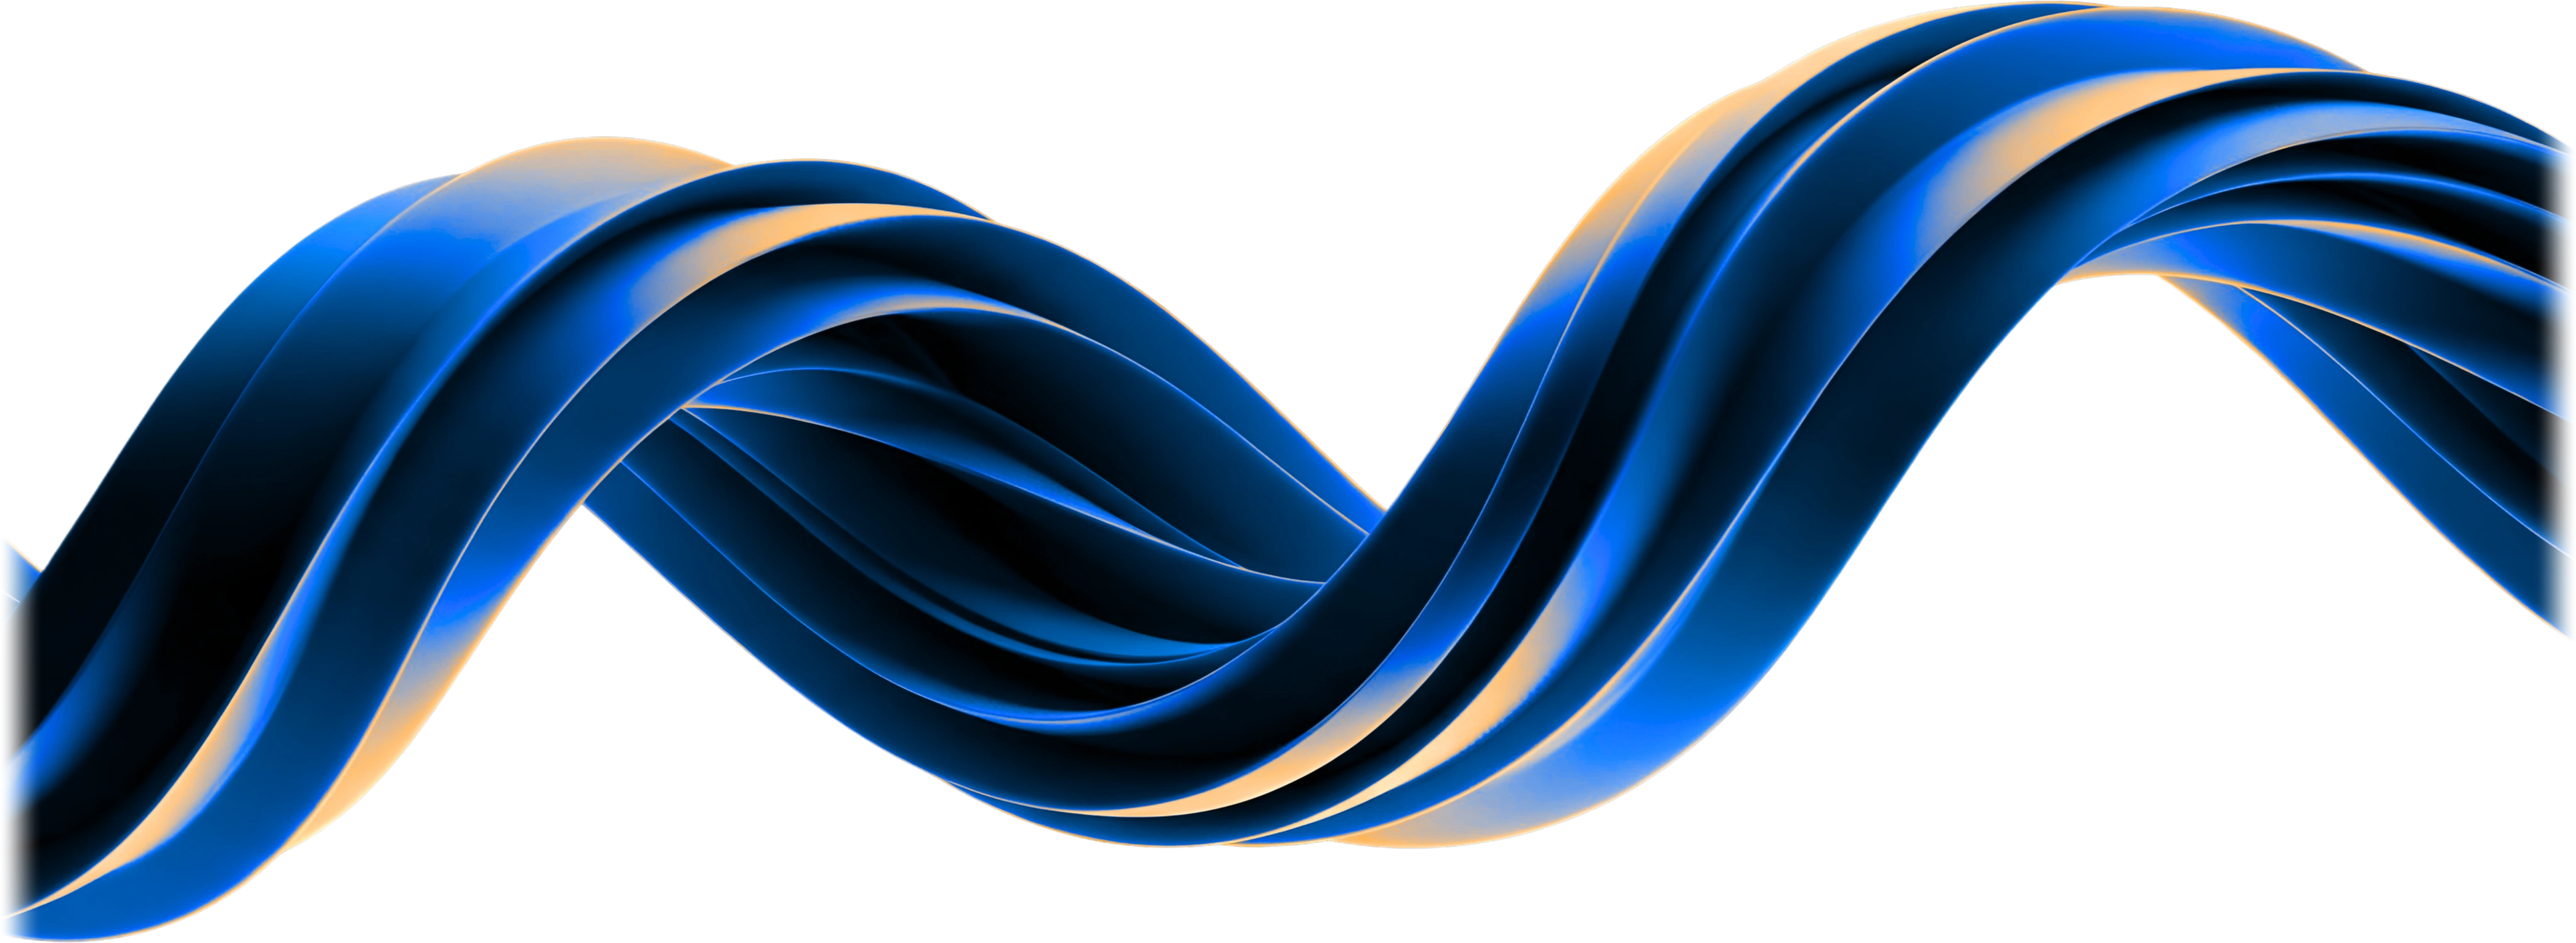
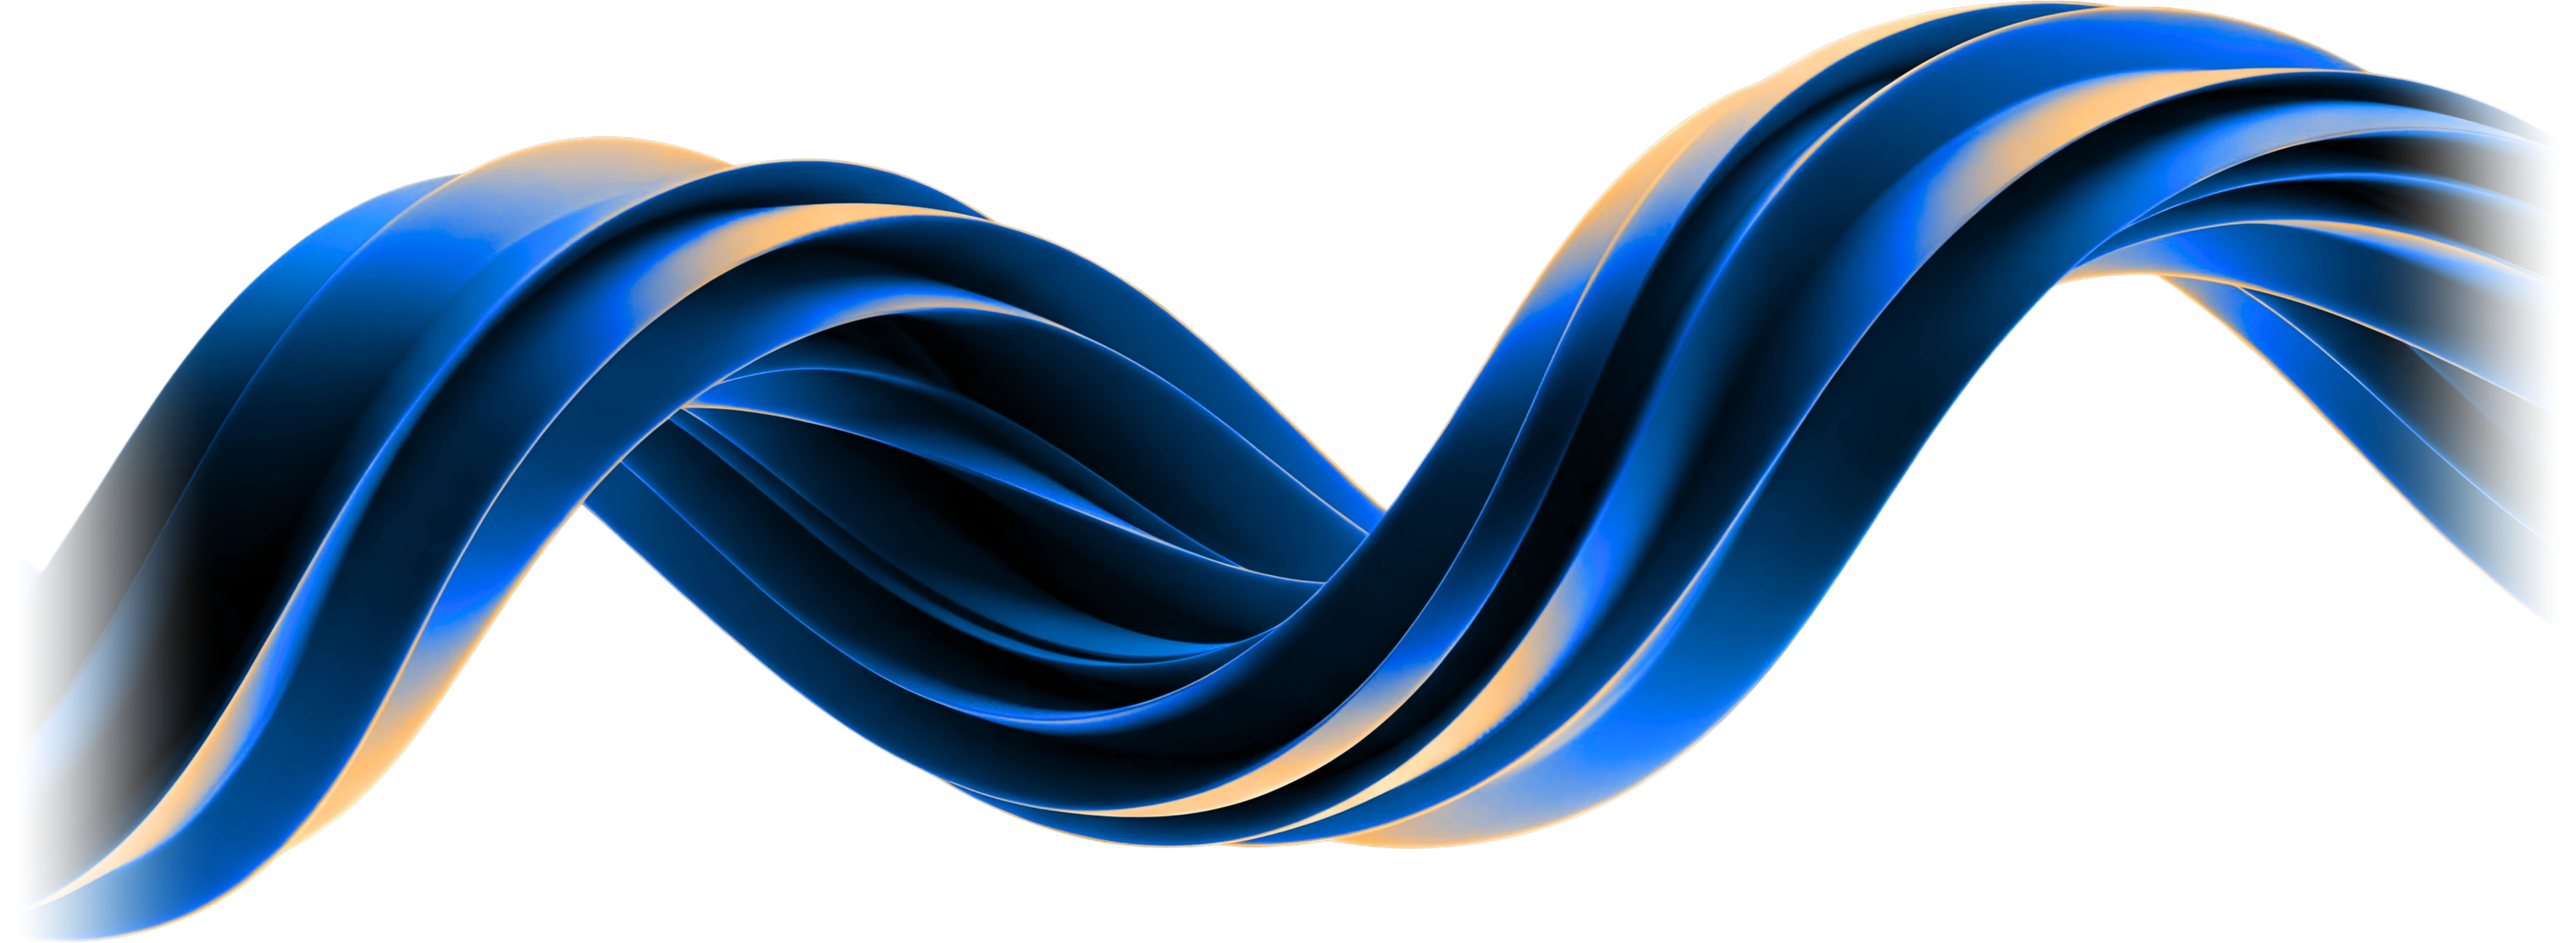
feat: seamless edge-to-edge wave emergence with smoothstep horizontal dissolve and uncropped crests

Changed region(s): [[0.0, 0.3987, 0.0938, 1.0], [0.9062, 0.092, 1.0, 0.6747]]

diff --git a/style.css b/style.css
@@ -665,6 +665,8 @@ body, body.desktop-view {
   z-index: 1;
   opacity: 0.65;
   filter: drop-shadow(0 0 50px rgba(67, 106, 238, 0.45));
+  -webkit-mask-image: linear-gradient(to right, transparent 0%, black 7%, black 93%, transparent 100%);
+  mask-image: linear-gradient(to right, transparent 0%, black 7%, black 93%, transparent 100%);
 }
 
 .about-grid {
@@ -845,6 +847,8 @@ body, body.desktop-view {
   z-index: 1;
   opacity: 0.60;
   filter: drop-shadow(0 0 50px rgba(145, 224, 253, 0.4));
+  -webkit-mask-image: linear-gradient(to right, transparent 0%, black 7%, black 93%, transparent 100%);
+  mask-image: linear-gradient(to right, transparent 0%, black 7%, black 93%, transparent 100%);
 }
 
 .organizers-cards-grid {
@@ -1312,6 +1316,8 @@ body, body.desktop-view {
   z-index: 1;
   opacity: 0.85;
   filter: drop-shadow(0 0 50px rgba(67, 106, 238, 0.45));
+  -webkit-mask-image: linear-gradient(to right, transparent 0%, black 7%, black 93%, transparent 100%);
+  mask-image: linear-gradient(to right, transparent 0%, black 7%, black 93%, transparent 100%);
 }
 
 .stages-timeline-row {
